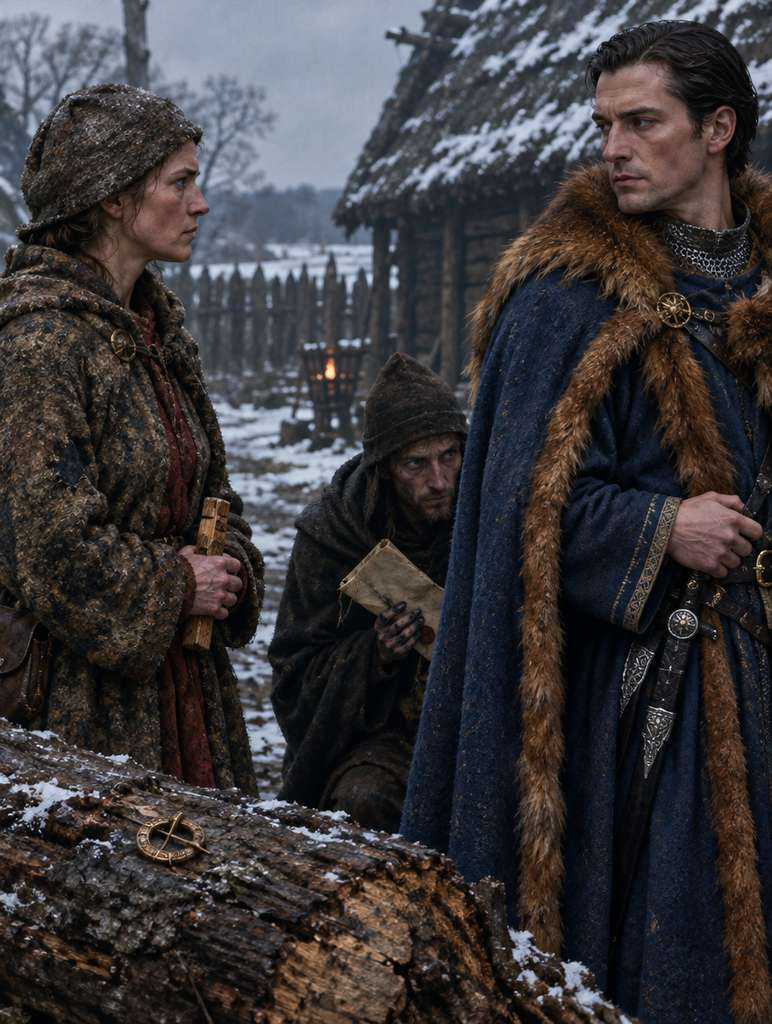
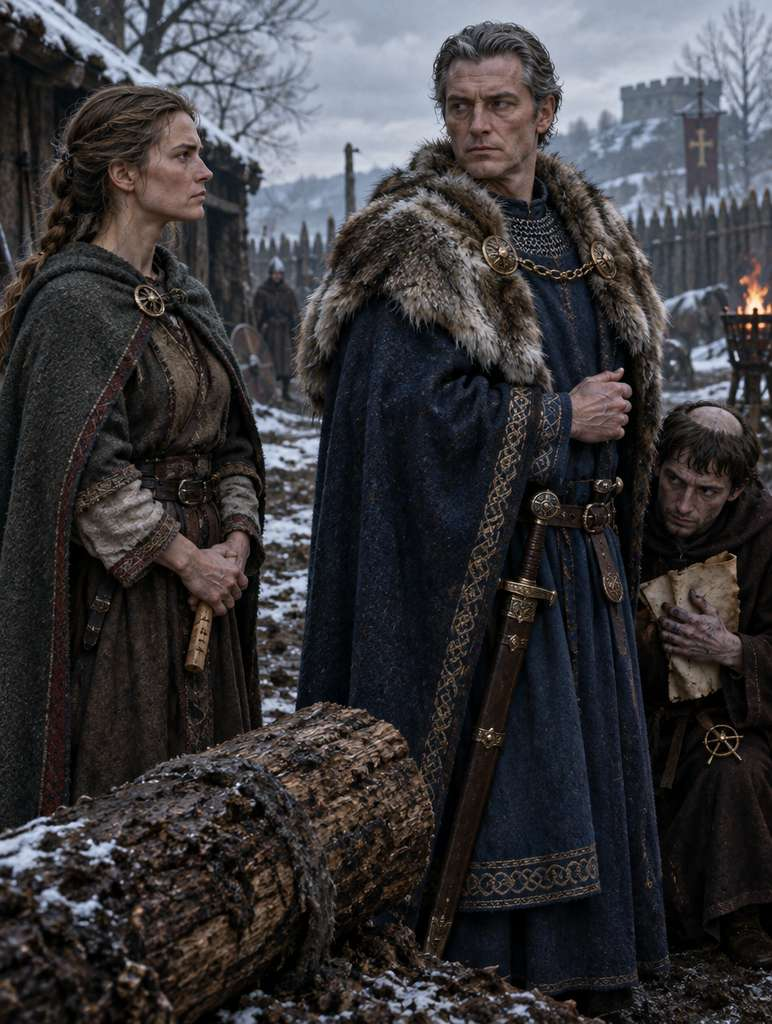
books: die-sprache-des-anderen Figuren aus RomanForge neu uebernommen (Uebergabe feebc32e, 2026-11-10)
names.yaml: 9 Aussehen-Beschreibungen aus RomanForge uebernommen (--force-visual), Berto der Sohn heisst in RomanForge nur noch Berto (visual_label bleibt). Spiegel romanforge/characters.json aktualisiert. Kapitelbilder 001-003 mit dem neuen Aussehen neu erzeugt; Dry-Run-Prompts entsprechend.

diff --git a/books/die-sprache-des-anderen/work/prompts/higgsfield/002-chapter-stil-01-original-dryrun.md b/books/die-sprache-des-anderen/work/prompts/higgsfield/002-chapter-stil-01-original-dryrun.md
@@ -1,1 +1,1 @@
-Alda steht Raginbert gegenüber, der auf einem umgestürzten Klotz steht, während Otwin hinter ihm kauert. Figuren: Alda — steht mit gefalteten Händen, die Finger um ein Kerbholz geklammert, blickt Raginbert direkt an — fleckiger Wollmantel, grobe Wollkappe, wetterhartes Gesicht, zäher Blick; Raginbert — blickt mit kaltem Ausdruck von Alda weg, seine Hand ruht auf dem Griff seines Mantels — blauer Mantel mit Fuchspelzfutter, Silberbeschläge am Zaumzeug, glatte Züge, kalter Blick; Otwin — duckte sich halb im Schatten, hält ein gefaltetes Kalbsleder vor sich — dunkle, abgewetzte Kutte, eingefallene Wangen, bläuliche Kälte, klebende Tintenspuren an Fingern. Gegenstände: umgestürzter Eichenklotz, Kerbholz, Kalbsleder (Pergament), Bronze-Fibel. Bildausschnitt: medium shot. Early medieval Frankish material world: wool, linen and leather clothing, felt caps, mail and conical helmets, wax tablets, parchment and calfskin deeds with wax seals, oak, tarred rope, iron. Cinematic literary historical illustration, restrained painterly realism, fine detail, atmospheric light. Mid-9th century Carolingian winter: cold grey-blue daylight, wet slate grey, mud brown, oak dark, iron black, snow white, dull ochre and dark red, pale gold firelight. Mood: grave, taut, human and concrete, with work, family, obligation and quiet danger rather than heroic spectacle. Clear central figure or central dramatic situation, strong readable composition.
+Alda steht Raginbert gegenüber, der auf einem umgestürzten Klotz steht, während Otwin hinter ihm kauert. Figuren: Alda — steht mit gefalteten Händen, die Finger um ein Kerbholz geklammert, blickt Raginbert direkt an — Etwa 32 Jahre alt, sehnige, kräftige Statur, Dunkelblondes, meist straff zurückgebundenes Haar, markante Wangenknochen, wache graubraune Augen mit frühem Ernst in den Mundwinkeln; Raginbert — blickt mit kaltem Ausdruck von Alda weg, seine Hand ruht auf dem Griff seines Mantels — Mann, 50 Jahre, hochgewachsen, breitschultrig. Wettergegerbtes, glattrasiertes Gesicht, kalte graue Augen, volles stahlgraues Haar. Edler frühmittelalterlicher Pelzmantel über feinem blauen Wollgewand, Kettenhemd-Ansatz, Schwert am Gürtel; Otwin — duckte sich halb im Schatten, hält ein gefaltetes Kalbsleder vor sich — Mann, 29 Jahre, schmale, leicht gebeugte Statur. Blasses, schmales Gesicht, dunkle unruhige Augen, herauswachsende Mönchstonsur im dunkelbraunen Haar. Tintenflecken an den Fingern, blasse Brandnarbe auf dem linken Handrücken. Gegenstände: umgestürzter Eichenklotz, Kerbholz, Kalbsleder (Pergament), Bronze-Fibel. Bildausschnitt: medium shot. Early medieval Frankish material world: wool, linen and leather clothing, felt caps, mail and conical helmets, wax tablets, parchment and calfskin deeds with wax seals, oak, tarred rope, iron. Cinematic literary historical illustration, restrained painterly realism, fine detail, atmospheric light. Mid-9th century Carolingian winter: cold grey-blue daylight, wet slate grey, mud brown, oak dark, iron black, snow white, dull ochre and dark red, pale gold firelight. Mood: grave, taut, human and concrete, with work, family, obligation and quiet danger rather than heroic spectacle. Clear central figure or central dramatic situation, strong readable composition.

diff --git a/books/die-sprache-des-anderen/work/prompts/higgsfield/002-chapter-stil-01-original.md b/books/die-sprache-des-anderen/work/prompts/higgsfield/002-chapter-stil-01-original.md
@@ -1,1 +1,1 @@
-Alda steht Raginbert gegenüber, der auf einem umgestürzten Klotz steht, während Otwin hinter ihm kauert. Figuren: Alda — steht mit gefalteten Händen, die Finger um ein Kerbholz geklammert, blickt Raginbert direkt an — fleckiger Wollmantel, grobe Wollkappe, wetterhartes Gesicht, zäher Blick; Raginbert — blickt mit kaltem Ausdruck von Alda weg, seine Hand ruht auf dem Griff seines Mantels — blauer Mantel mit Fuchspelzfutter, Silberbeschläge am Zaumzeug, glatte Züge, kalter Blick; Otwin — duckte sich halb im Schatten, hält ein gefaltetes Kalbsleder vor sich — dunkle, abgewetzte Kutte, eingefallene Wangen, bläuliche Kälte, klebende Tintenspuren an Fingern. Gegenstände: umgestürzter Eichenklotz, Kerbholz, Kalbsleder (Pergament), Bronze-Fibel. Bildausschnitt: medium shot. Early medieval Frankish material world: wool, linen and leather clothing, felt caps, mail and conical helmets, wax tablets, parchment and calfskin deeds with wax seals, oak, tarred rope, iron. Cinematic literary historical illustration, restrained painterly realism, fine detail, atmospheric light. Mid-9th century Carolingian winter: cold grey-blue daylight, wet slate grey, mud brown, oak dark, iron black, snow white, dull ochre and dark red, pale gold firelight. Mood: grave, taut, human and concrete, with work, family, obligation and quiet danger rather than heroic spectacle. Clear central figure or central dramatic situation, strong readable composition.
+Alda steht Raginbert gegenüber, der auf einem umgestürzten Klotz steht, während Otwin hinter ihm kauert. Figuren: Alda — steht mit gefalteten Händen, die Finger um ein Kerbholz geklammert, blickt Raginbert direkt an — Etwa 32 Jahre alt, sehnige, kräftige Statur, Dunkelblondes, meist straff zurückgebundenes Haar, markante Wangenknochen, wache graubraune Augen mit frühem Ernst in den Mundwinkeln; Raginbert — blickt mit kaltem Ausdruck von Alda weg, seine Hand ruht auf dem Griff seines Mantels — Mann, 50 Jahre, hochgewachsen, breitschultrig. Wettergegerbtes, glattrasiertes Gesicht, kalte graue Augen, volles stahlgraues Haar. Edler frühmittelalterlicher Pelzmantel über feinem blauen Wollgewand, Kettenhemd-Ansatz, Schwert am Gürtel; Otwin — duckte sich halb im Schatten, hält ein gefaltetes Kalbsleder vor sich — Mann, 29 Jahre, schmale, leicht gebeugte Statur. Blasses, schmales Gesicht, dunkle unruhige Augen, herauswachsende Mönchstonsur im dunkelbraunen Haar. Tintenflecken an den Fingern, blasse Brandnarbe auf dem linken Handrücken. Gegenstände: umgestürzter Eichenklotz, Kerbholz, Kalbsleder (Pergament), Bronze-Fibel. Bildausschnitt: medium shot. Early medieval Frankish material world: wool, linen and leather clothing, felt caps, mail and conical helmets, wax tablets, parchment and calfskin deeds with wax seals, oak, tarred rope, iron. Cinematic literary historical illustration, restrained painterly realism, fine detail, atmospheric light. Mid-9th century Carolingian winter: cold grey-blue daylight, wet slate grey, mud brown, oak dark, iron black, snow white, dull ochre and dark red, pale gold firelight. Mood: grave, taut, human and concrete, with work, family, obligation and quiet danger rather than heroic spectacle. Clear central figure or central dramatic situation, strong readable composition.

diff --git a/books/die-sprache-des-anderen/work/prompts/higgsfield/003-chapter-stil-01-original-dryrun.md b/books/die-sprache-des-anderen/work/prompts/higgsfield/003-chapter-stil-01-original-dryrun.md
@@ -1,1 +1,1 @@
-Alda steht vor Graf Adalhard und den Schöffen, das Holz mit dem königlichen Siegelzeichen nach oben haltend, während Raginbert daneben steht. Figuren: Alda — hält das Holz mit beiden Händen vor sich, blickt zum Grafen — durchnässter Wollmantel, verkrusteter Schlamm an den Bundschuhen, Hände um Kerbhölzer geschlossen; Raginbert — steht neben Alda, blickt auf Alda — schwerer blauer Mantel mit Fuchsfellfutter, kalter Blick; Graf Adalhard — sitzt auf erhöhter Bank, blickt auf Alda und Raginbert — wettergegerbtes Gesicht, kurz geschorenes graues Haar, Biberpelz. Gegenstände: Kerbhölzer mit königlichem Siegelzeichen, Pergament mit Siegel, Eichenholzbeschlag. Bildausschnitt: medium shot. Early medieval Frankish material world: wool, linen and leather clothing, felt caps, mail and conical helmets, wax tablets, parchment and calfskin deeds with wax seals, oak, tarred rope, iron. Cinematic literary historical illustration, restrained painterly realism, fine detail, atmospheric light. Mid-9th century Carolingian winter: cold grey-blue daylight, wet slate grey, mud brown, oak dark, iron black, snow white, dull ochre and dark red, pale gold firelight. Mood: grave, taut, human and concrete, with work, family, obligation and quiet danger rather than heroic spectacle. Clear central figure or central dramatic situation, strong readable composition.
+Alda steht vor Graf Adalhard und den Schöffen, das Holz mit dem königlichen Siegelzeichen nach oben haltend, während Raginbert daneben steht. Figuren: Alda — hält das Holz mit beiden Händen vor sich, blickt zum Grafen — Etwa 32 Jahre alt, sehnige, kräftige Statur, Dunkelblondes, meist straff zurückgebundenes Haar, markante Wangenknochen, wache graubraune Augen mit frühem Ernst in den Mundwinkeln; Raginbert — steht neben Alda, blickt auf Alda — Mann, 50 Jahre, hochgewachsen, breitschultrig. Wettergegerbtes, glattrasiertes Gesicht, kalte graue Augen, volles stahlgraues Haar. Edler frühmittelalterlicher Pelzmantel über feinem blauen Wollgewand, Kettenhemd-Ansatz, Schwert am Gürtel; Graf Adalhard — sitzt auf erhöhter Bank, blickt auf Alda und Raginbert — wettergegerbtes Gesicht, kurz geschorenes graues Haar, Biberpelz. Gegenstände: Kerbhölzer mit königlichem Siegelzeichen, Pergament mit Siegel, Eichenholzbeschlag. Bildausschnitt: medium shot. Early medieval Frankish material world: wool, linen and leather clothing, felt caps, mail and conical helmets, wax tablets, parchment and calfskin deeds with wax seals, oak, tarred rope, iron. Cinematic literary historical illustration, restrained painterly realism, fine detail, atmospheric light. Mid-9th century Carolingian winter: cold grey-blue daylight, wet slate grey, mud brown, oak dark, iron black, snow white, dull ochre and dark red, pale gold firelight. Mood: grave, taut, human and concrete, with work, family, obligation and quiet danger rather than heroic spectacle. Clear central figure or central dramatic situation, strong readable composition.

diff --git a/books/die-sprache-des-anderen/work/prompts/higgsfield/003-chapter-stil-01-original.md b/books/die-sprache-des-anderen/work/prompts/higgsfield/003-chapter-stil-01-original.md
@@ -1,1 +1,1 @@
-Alda steht vor Graf Adalhard und den Schöffen, das Holz mit dem königlichen Siegelzeichen nach oben haltend, während Raginbert daneben steht. Figuren: Alda — hält das Holz mit beiden Händen vor sich, blickt zum Grafen — durchnässter Wollmantel, verkrusteter Schlamm an den Bundschuhen, Hände um Kerbhölzer geschlossen; Raginbert — steht neben Alda, blickt auf Alda — schwerer blauer Mantel mit Fuchsfellfutter, kalter Blick; Graf Adalhard — sitzt auf erhöhter Bank, blickt auf Alda und Raginbert — wettergegerbtes Gesicht, kurz geschorenes graues Haar, Biberpelz. Gegenstände: Kerbhölzer mit königlichem Siegelzeichen, Pergament mit Siegel, Eichenholzbeschlag. Bildausschnitt: medium shot. Early medieval Frankish material world: wool, linen and leather clothing, felt caps, mail and conical helmets, wax tablets, parchment and calfskin deeds with wax seals, oak, tarred rope, iron. Cinematic literary historical illustration, restrained painterly realism, fine detail, atmospheric light. Mid-9th century Carolingian winter: cold grey-blue daylight, wet slate grey, mud brown, oak dark, iron black, snow white, dull ochre and dark red, pale gold firelight. Mood: grave, taut, human and concrete, with work, family, obligation and quiet danger rather than heroic spectacle. Clear central figure or central dramatic situation, strong readable composition.
+Alda steht vor Graf Adalhard und den Schöffen, das Holz mit dem königlichen Siegelzeichen nach oben haltend, während Raginbert daneben steht. Figuren: Alda — hält das Holz mit beiden Händen vor sich, blickt zum Grafen — Etwa 32 Jahre alt, sehnige, kräftige Statur, Dunkelblondes, meist straff zurückgebundenes Haar, markante Wangenknochen, wache graubraune Augen mit frühem Ernst in den Mundwinkeln; Raginbert — steht neben Alda, blickt auf Alda — Mann, 50 Jahre, hochgewachsen, breitschultrig. Wettergegerbtes, glattrasiertes Gesicht, kalte graue Augen, volles stahlgraues Haar. Edler frühmittelalterlicher Pelzmantel über feinem blauen Wollgewand, Kettenhemd-Ansatz, Schwert am Gürtel; Graf Adalhard — sitzt auf erhöhter Bank, blickt auf Alda und Raginbert — wettergegerbtes Gesicht, kurz geschorenes graues Haar, Biberpelz. Gegenstände: Kerbhölzer mit königlichem Siegelzeichen, Pergament mit Siegel, Eichenholzbeschlag. Bildausschnitt: medium shot. Early medieval Frankish material world: wool, linen and leather clothing, felt caps, mail and conical helmets, wax tablets, parchment and calfskin deeds with wax seals, oak, tarred rope, iron. Cinematic literary historical illustration, restrained painterly realism, fine detail, atmospheric light. Mid-9th century Carolingian winter: cold grey-blue daylight, wet slate grey, mud brown, oak dark, iron black, snow white, dull ochre and dark red, pale gold firelight. Mood: grave, taut, human and concrete, with work, family, obligation and quiet danger rather than heroic spectacle. Clear central figure or central dramatic situation, strong readable composition.

diff --git a/books/die-sprache-des-anderen/work/prompts/higgsfield/001-chapter-stil-01-original-dryrun.md b/books/die-sprache-des-anderen/work/prompts/higgsfield/001-chapter-stil-01-original-dryrun.md
@@ -1,1 +1,1 @@
-Alda steht am Kai und berührt die eiserne Kette, mit der ihr Kahn festgebunden ist. Figuren: Alda — blickt auf die Kette, ihre Hand berührt das kalte Metall — kräftige Frau, dunkles Haar unter Wollkappe, fleckiger Wollmantel, aufmerksamer Blick. Gegenstände: eiserne Kette, Bugring des Kahns, Schließkeil. Bildausschnitt: medium shot. Early medieval Frankish material world: wool, linen and leather clothing, felt caps, mail and conical helmets, wax tablets, parchment and calfskin deeds with wax seals, oak, tarred rope, iron. Cinematic literary historical illustration, restrained painterly realism, fine detail, atmospheric light. Mid-9th century Carolingian winter: cold grey-blue daylight, wet slate grey, mud brown, oak dark, iron black, snow white, dull ochre and dark red, pale gold firelight. Mood: grave, taut, human and concrete, with work, family, obligation and quiet danger rather than heroic spectacle. Clear central figure or central dramatic situation, strong readable composition.
+Alda steht am Kai und berührt die eiserne Kette, mit der ihr Kahn festgebunden ist. Figuren: Alda — blickt auf die Kette, ihre Hand berührt das kalte Metall — Etwa 32 Jahre alt, sehnige, kräftige Statur, Dunkelblondes, meist straff zurückgebundenes Haar, markante Wangenknochen, wache graubraune Augen mit frühem Ernst in den Mundwinkeln. Gegenstände: eiserne Kette, Bugring des Kahns, Schließkeil. Bildausschnitt: medium shot. Early medieval Frankish material world: wool, linen and leather clothing, felt caps, mail and conical helmets, wax tablets, parchment and calfskin deeds with wax seals, oak, tarred rope, iron. Cinematic literary historical illustration, restrained painterly realism, fine detail, atmospheric light. Mid-9th century Carolingian winter: cold grey-blue daylight, wet slate grey, mud brown, oak dark, iron black, snow white, dull ochre and dark red, pale gold firelight. Mood: grave, taut, human and concrete, with work, family, obligation and quiet danger rather than heroic spectacle. Clear central figure or central dramatic situation, strong readable composition.

diff --git a/books/die-sprache-des-anderen/work/prompts/higgsfield/001-chapter-stil-01-original.md b/books/die-sprache-des-anderen/work/prompts/higgsfield/001-chapter-stil-01-original.md
@@ -1,1 +1,1 @@
-Alda steht am Kai und berührt die eiserne Kette, mit der ihr Kahn festgebunden ist. Figuren: Alda — blickt auf die Kette, ihre Hand berührt das kalte Metall — kräftige Frau, dunkles Haar unter Wollkappe, fleckiger Wollmantel, aufmerksamer Blick. Gegenstände: eiserne Kette, Bugring des Kahns, Schließkeil. Bildausschnitt: medium shot. Early medieval Frankish material world: wool, linen and leather clothing, felt caps, mail and conical helmets, wax tablets, parchment and calfskin deeds with wax seals, oak, tarred rope, iron. Cinematic literary historical illustration, restrained painterly realism, fine detail, atmospheric light. Mid-9th century Carolingian winter: cold grey-blue daylight, wet slate grey, mud brown, oak dark, iron black, snow white, dull ochre and dark red, pale gold firelight. Mood: grave, taut, human and concrete, with work, family, obligation and quiet danger rather than heroic spectacle. Clear central figure or central dramatic situation, strong readable composition.
+Alda steht am Kai und berührt die eiserne Kette, mit der ihr Kahn festgebunden ist. Figuren: Alda — blickt auf die Kette, ihre Hand berührt das kalte Metall — Etwa 32 Jahre alt, sehnige, kräftige Statur, Dunkelblondes, meist straff zurückgebundenes Haar, markante Wangenknochen, wache graubraune Augen mit frühem Ernst in den Mundwinkeln. Gegenstände: eiserne Kette, Bugring des Kahns, Schließkeil. Bildausschnitt: medium shot. Early medieval Frankish material world: wool, linen and leather clothing, felt caps, mail and conical helmets, wax tablets, parchment and calfskin deeds with wax seals, oak, tarred rope, iron. Cinematic literary historical illustration, restrained painterly realism, fine detail, atmospheric light. Mid-9th century Carolingian winter: cold grey-blue daylight, wet slate grey, mud brown, oak dark, iron black, snow white, dull ochre and dark red, pale gold firelight. Mood: grave, taut, human and concrete, with work, family, obligation and quiet danger rather than heroic spectacle. Clear central figure or central dramatic situation, strong readable composition.
